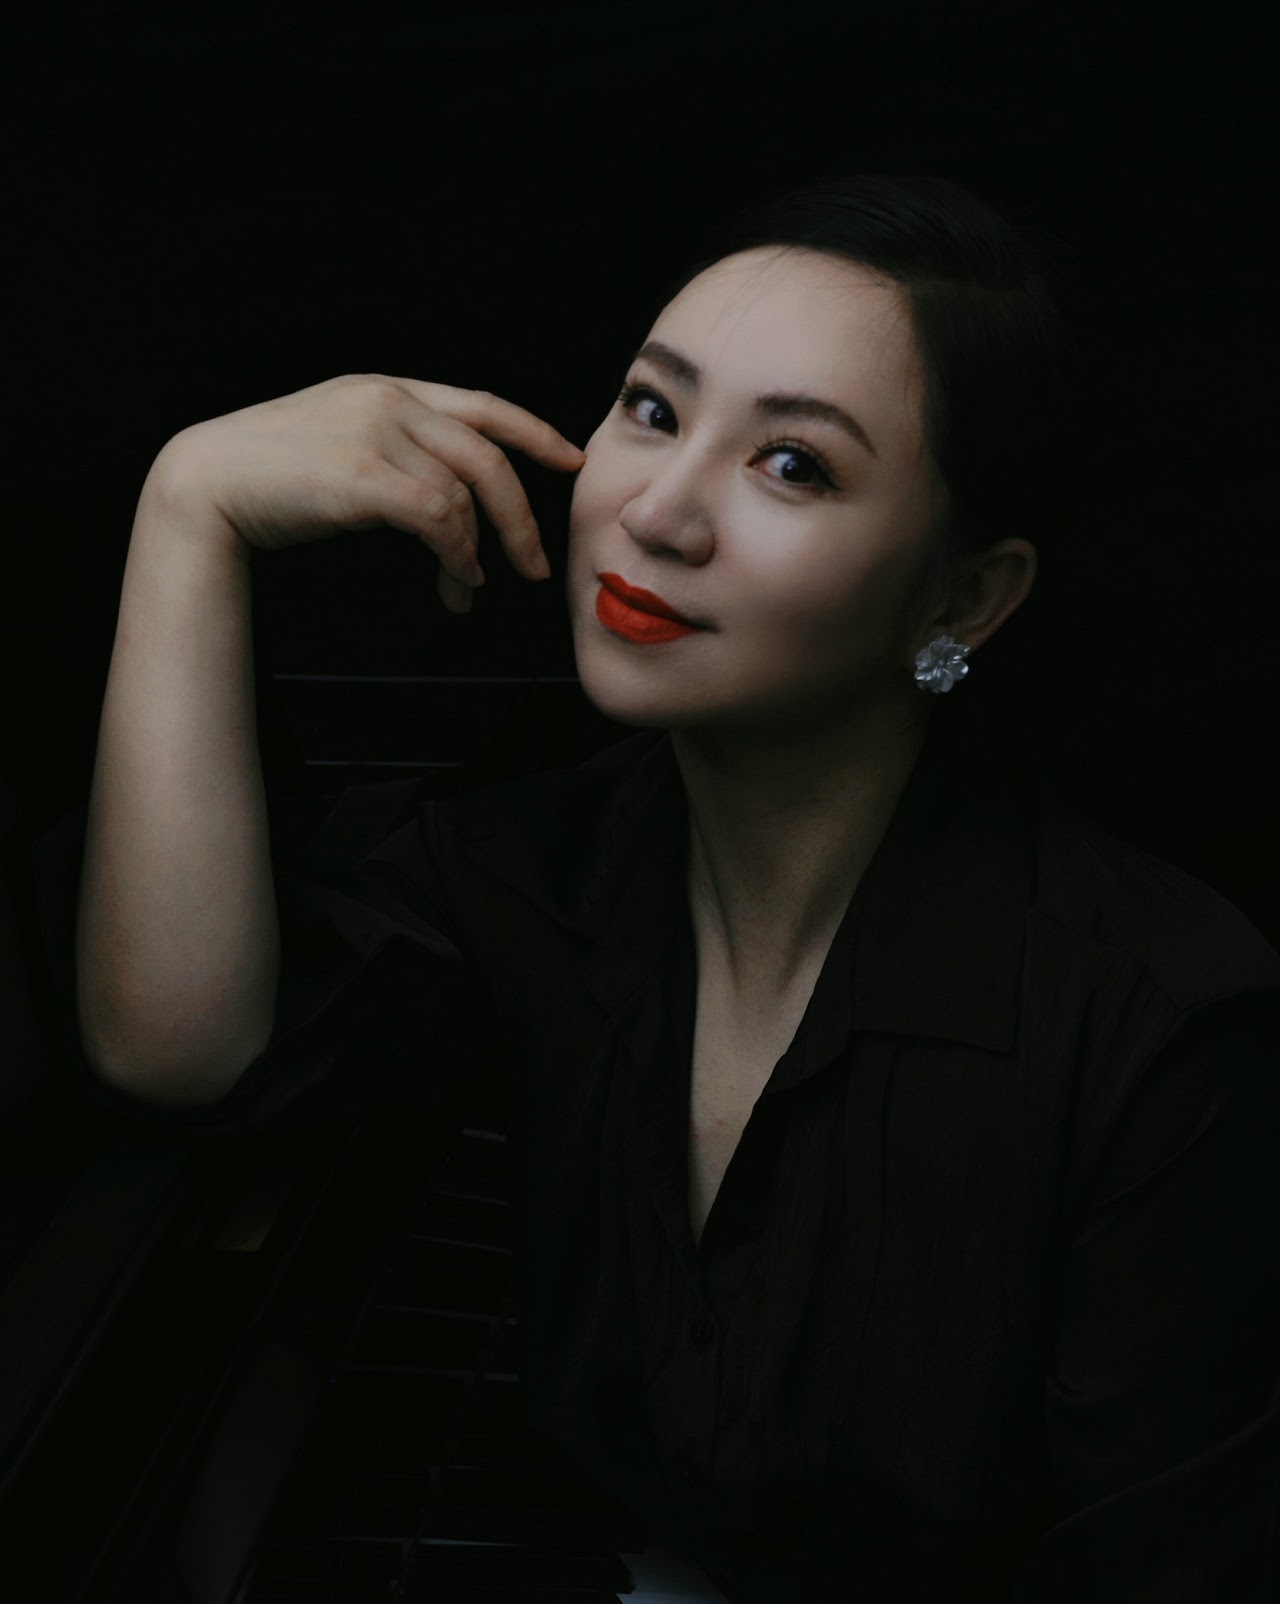
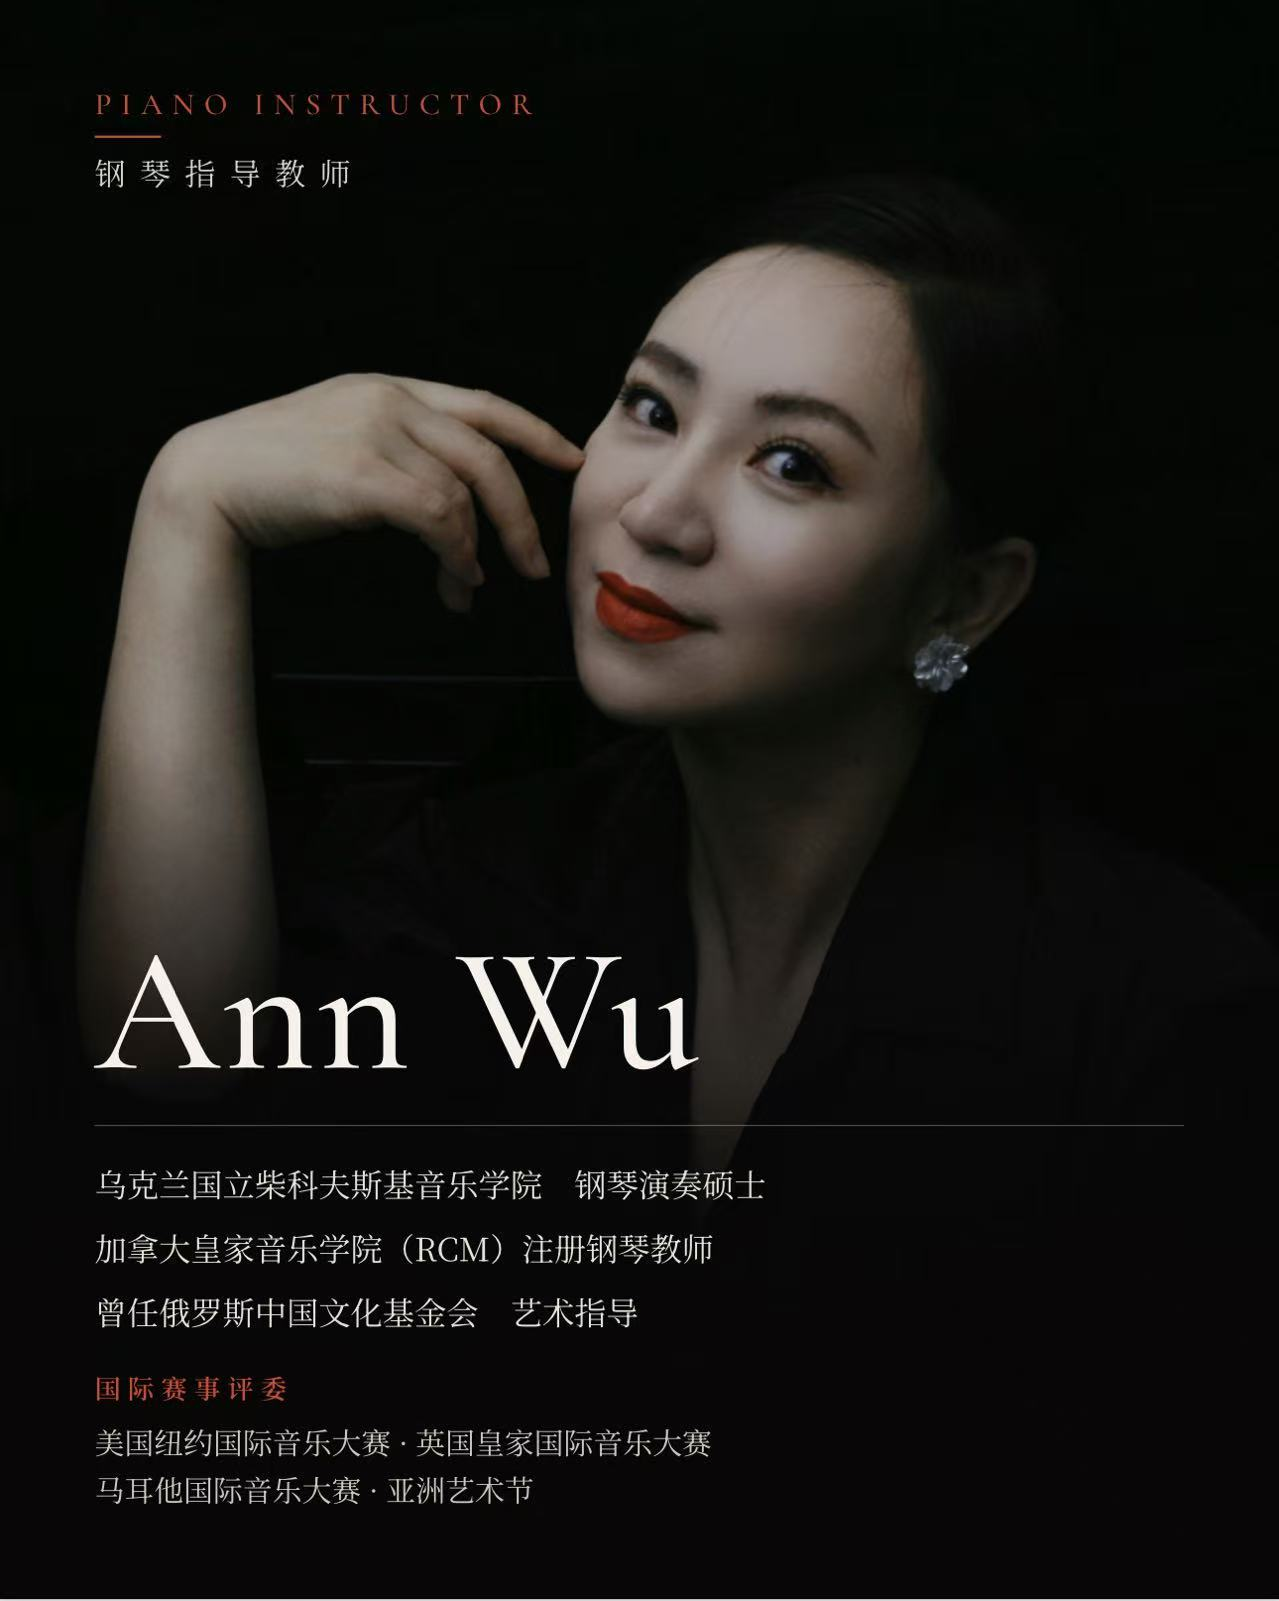
Replace instructor photos with profile posters and show them larger
The new photos carry each instructor's name, role and bio, so show
the full poster in a two-column grid instead of a small circular crop,
and drop the duplicate name/role text. Fix James Chen / Ann Wu names.

diff --git a/index.html b/index.html
@@ -197,18 +197,15 @@ footer a{color:rgba(255,255,255,0.25)}
 .mobile-menu{transform:translateY(calc(-100% - var(--nav-h)))}
 .mobile-menu.open{transform:translateY(0)}
 .instructors{background:var(--cream)}
-.inst-grid{display:grid;grid-template-columns:repeat(auto-fit,minmax(200px,1fr));gap:1.5rem;margin-top:3rem}
-.inst-card{background:#fff;border:1px solid var(--border);border-radius:8px;padding:2rem 1.5rem;text-align:center;transition:transform 0.3s,box-shadow 0.3s}
-.inst-card:hover{transform:translateY(-6px);box-shadow:0 16px 40px rgba(0,0,0,0.1)}
-.inst-photo{width:140px;height:140px;border-radius:50%;margin:0 auto 1.3rem;overflow:hidden;border:2px solid var(--gold);background:var(--ink2);display:flex;align-items:center;justify-content:center;font-family:'Noto Serif SC',serif;font-size:2.4rem;font-weight:700;color:var(--gold)}
-.inst-photo img{width:100%;height:100%;object-fit:cover;object-position:center 25%;display:block}
+.inst-grid{display:grid;grid-template-columns:repeat(auto-fit,minmax(min(100%,380px),1fr));gap:2rem;margin-top:3rem}
+.inst-card{display:block;border-radius:10px;overflow:hidden;background:var(--ink);box-shadow:0 12px 40px rgba(0,0,0,0.18);transition:transform 0.3s,box-shadow 0.3s}
+.inst-card:hover{transform:translateY(-6px);box-shadow:0 20px 48px rgba(0,0,0,0.28)}
+.inst-card img{width:100%;height:auto;display:block}
 .rehearsal-grid{display:grid;grid-template-columns:1fr 1fr;gap:1.5rem;margin-top:4rem}
 .rehearsal-grid figure{border-radius:10px;overflow:hidden;box-shadow:0 12px 48px rgba(0,0,0,0.35);background:var(--ink)}
 .rehearsal-grid img{width:100%;aspect-ratio:3/2;object-fit:cover;display:block}
 .rehearsal-grid figcaption{padding:0.9rem 1.5rem;text-align:center;font-size:0.85rem;color:rgba(255,255,255,0.7);letter-spacing:0.05em}
 @media(max-width:768px){.rehearsal-grid{grid-template-columns:1fr}}
-.inst-card h3{font-family:'Noto Serif SC',serif;font-size:1.2rem;color:var(--ink)}
-.inst-role{font-size:0.7rem;letter-spacing:0.18em;text-transform:uppercase;color:var(--gold-dk);margin-top:4px}
 .stat-num.sm{font-size:1.6rem;line-height:1.4}
 </style>
 </head>
@@ -323,26 +320,10 @@ footer a{color:rgba(255,255,255,0.25)}
     <p class="section-eyebrow reveal">Our Instructors · 导师团队</p>
     <h2 class="section-title reveal">Meet our <em>team</em></h2>
     <div class="inst-grid stagger">
-      <div class="inst-card">
-        <div class="inst-photo"><img src="images/instructors/shana-yang.jpg" alt="Shana Yang" loading="lazy"></div>
-        <h3>Shana Yang</h3>
-        <div class="inst-role">Conductor</div>
-      </div>
-      <div class="inst-card">
-        <div class="inst-photo"><img src="images/instructors/liz-fu.jpg" alt="Liz Fu" loading="lazy"></div>
-        <h3>Liz Fu</h3>
-        <div class="inst-role">Instructor</div>
-      </div>
-      <div class="inst-card">
-        <div class="inst-photo"><img src="images/instructors/anna-wu.jpg" alt="Anna Wu" loading="lazy"></div>
-        <h3>Anna Wu</h3>
-        <div class="inst-role">Instructor</div>
-      </div>
-      <div class="inst-card">
-        <div class="inst-photo"><img src="images/instructors/jame-chen.jpg" alt="Jame Chen" loading="lazy"></div>
-        <h3>Jame Chen</h3>
-        <div class="inst-role">Pianist</div>
-      </div>
+      <a class="inst-card" href="images/instructors/shana-yang.jpg" target="_blank" rel="noopener"><img src="images/instructors/shana-yang.jpg" alt="Shana Yang — Artistic Director &amp; Conductor" loading="lazy"></a>
+      <a class="inst-card" href="images/instructors/liz-fu.jpg" target="_blank" rel="noopener"><img src="images/instructors/liz-fu.jpg" alt="Liz Fu — Vocal Coach" loading="lazy"></a>
+      <a class="inst-card" href="images/instructors/anna-wu.jpg" target="_blank" rel="noopener"><img src="images/instructors/anna-wu.jpg" alt="Ann Wu — Piano Instructor" loading="lazy"></a>
+      <a class="inst-card" href="images/instructors/james-chen.jpg" target="_blank" rel="noopener"><img src="images/instructors/james-chen.jpg" alt="James Chen — Pianist" loading="lazy"></a>
     </div>
   </section>
 
